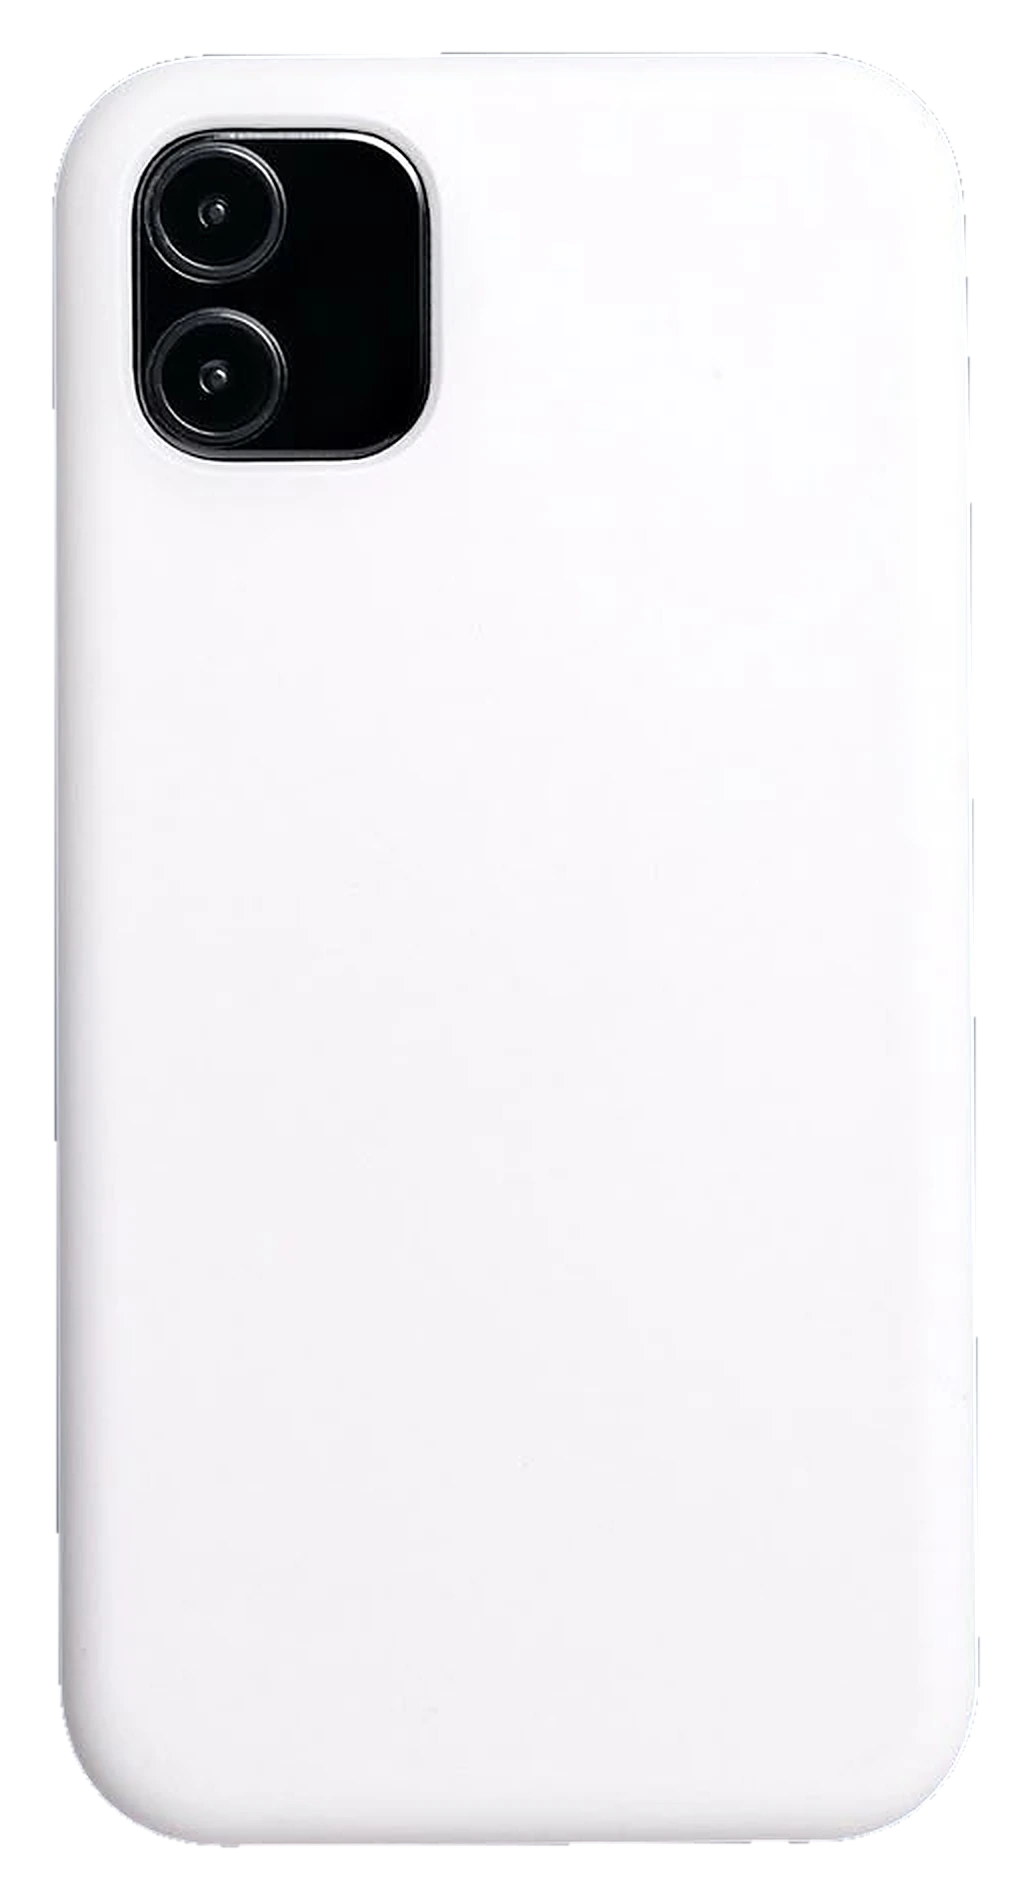
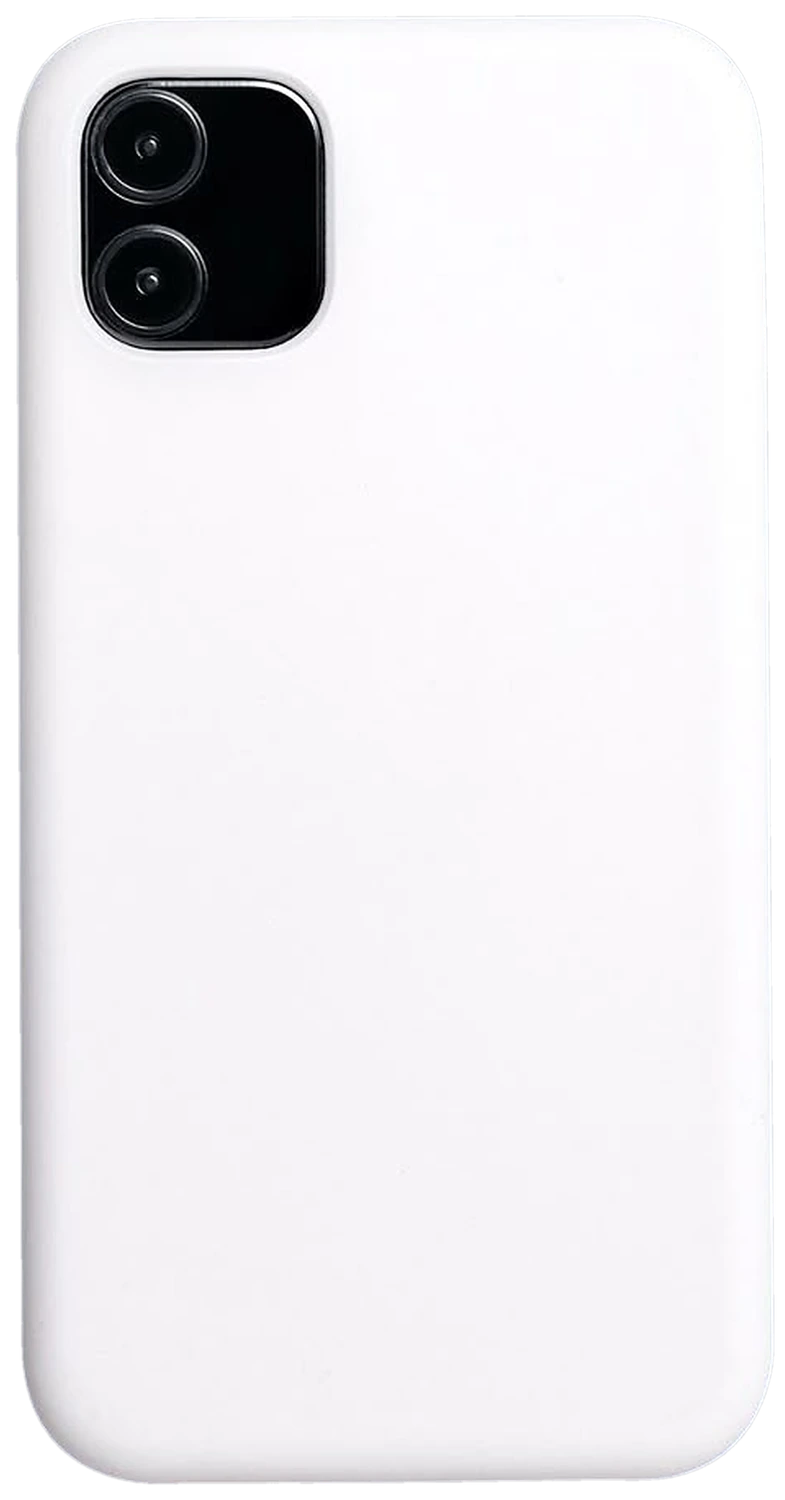
feat(storefront): showcase images with a sample design for listings; sharper bottle and phone case; brand tile instead of 'Photo à venir'
Claude-Session: https://claude.ai/code/session_01FUUk4RKLo5jqm7PrvG84qb

Changed region(s): [[0.0, 0.0307, 0.9478, 1.0]]

diff --git a/apps/storefront/src/app/produits/[slug]/page.tsx b/apps/storefront/src/app/produits/[slug]/page.tsx
@@ -6,7 +6,7 @@ import { ArrowRight, Check, FileText, Paintbrush } from "lucide-react";
 import { ApiUnavailable } from "@/components/api-unavailable";
 import { PageHeader } from "@/components/page-header";
 import { ProductCard } from "@/components/product-card";
-import { productPhotos } from "@/config/product-media";
+import { showcaseGallery } from "@/config/product-media";
 import { getProduct, listProducts, placementLabels, type Product } from "@/lib/api";
 import { sortedTiers, toNumber } from "@/lib/pricing";
 import { site } from "@/lib/site";
@@ -27,7 +27,7 @@ async function load(slug: string): Promise<{ product: Product | null; failed: bo
 export async function generateMetadata({ params }: { params: Params }): Promise<Metadata> {
   const { product } = await load((await params).slug);
   if (!product) return { title: "Produit" };
-  const photo = productPhotos(product)[0];
+  const photo = showcaseGallery(product)[0];
   return {
     title: product.name,
     description: `${product.name} personnalisé avec votre logo. À partir de ${formatHTG(toNumber(product.basePrice))} par ${product.unitLabel}.`,
@@ -51,7 +51,7 @@ export default async function ProductPage({ params }: { params: Params }) {
   }
   if (!product) notFound();
 
-  const gallery = productPhotos(product);
+  const gallery = showcaseGallery(product);
   const price = toNumber(product.basePrice);
   const compare = product.compareAtPrice ? toNumber(product.compareAtPrice) : undefined;
   const pct = discountPercent(price, compare);
@@ -100,7 +100,9 @@ export default async function ProductPage({ params }: { params: Params }) {
               </div>
             ))
           ) : (
-            <div className="flex aspect-[4/3] items-center justify-center rounded-[1.5rem] bg-ip-mist text-sm text-ip-muted">Photo à venir</div>
+            <div className="flex aspect-[4/3] items-center justify-center rounded-[1.5rem] bg-gradient-to-br from-ip-teal to-ip-teal-deep">
+              <Image src="/brand/icon-ip-192.png" alt="" width={96} height={96} className="size-24 rounded-3xl shadow-lg" />
+            </div>
           )}
         </div>
         <div className="lg:sticky lg:top-28 lg:self-start">

diff --git a/apps/storefront/src/config/product-media.ts b/apps/storefront/src/config/product-media.ts
@@ -4,6 +4,7 @@
  */
 import { placementLabels, type Placement, type Product } from "@/lib/api";
 import printAreasJson from "./print-areas.json";
+import showcaseJson from "./showcase.json";
 import newMediaJson from "./new-products-media.json";
 import { quadBox, type Quad } from "@/lib/quad";
 
@@ -297,4 +298,35 @@ export function previewFor(slug: string, placement: Placement, color?: string): 
   const own = areas[placement];
   const area = own ?? areas.FRONT ?? Object.values(areas)[0] ?? plainPreview(slug, placement).area;
   return { photo, area, indicative: !dedicated || !own || Boolean(approx?.includes(placement)) };
+}
+
+/* ---------- Showcase images (listings, cards, product pages) ---------- */
+
+interface ShowcaseEntry {
+  file: string;
+  width: number;
+  height: number;
+  alt: string;
+}
+const showcase = showcaseJson as Record<string, ShowcaseEntry>;
+
+/**
+ * The product WITH a sample design (Impact Pro logo / artwork) — what visitors see while browsing.
+ * The blank photo is only used inside the studio, where the customer puts their own design on it.
+ */
+export function showcasePhoto(slug: string): Photo | null {
+  const e = showcase[slug];
+  return e ? { src: `/photos/showcase/${e.file}`, alt: e.alt, width: e.width, height: e.height } : null;
+}
+
+/** Card / list image: showcase first, then the main photo (which already carries a design for most products). */
+export function showcaseFor(product: Pick<Product, "slug" | "name" | "images">): Photo | null {
+  return showcasePhoto(product.slug) ?? primaryPhoto(product);
+}
+
+/** Product page gallery: showcase first, then the regular photos. */
+export function showcaseGallery(product: Pick<Product, "slug" | "name" | "images">): Photo[] {
+  const s = showcasePhoto(product.slug);
+  const g = productPhotos(product);
+  return s ? [s, ...g] : g;
 }

diff --git a/apps/storefront/src/app/personnaliser/page.tsx b/apps/storefront/src/app/personnaliser/page.tsx
@@ -4,7 +4,7 @@ import Link from "next/link";
 import { ArrowRight, Brush, Layers, Printer, Scissors, Sparkles, Stamp, type LucideIcon } from "lucide-react";
 import { ApiUnavailable } from "@/components/api-unavailable";
 import { PageHeader } from "@/components/page-header";
-import { primaryPhoto } from "@/config/product-media";
+import { showcaseFor } from "@/config/product-media";
 import { listProducts, type Product } from "@/lib/api";
 import { lowestPrice } from "@/lib/pricing";
 import { services } from "@/lib/site";
@@ -51,7 +51,7 @@ export default async function CustomizePage() {
           ) : (
             <ul className="grid grid-cols-2 gap-3 sm:gap-4 md:grid-cols-3 lg:grid-cols-4">
               {products.map((p) => {
-                const photo = primaryPhoto(p);
+                const photo = showcaseFor(p);
                 return (
                   <li key={p.slug}>
                     <Link
@@ -62,7 +62,9 @@ export default async function CustomizePage() {
                         {photo ? (
                           <Image src={photo.src} alt="" fill sizes="(min-width: 1024px) 25vw, 50vw" className="object-cover transition-transform duration-300 group-hover:scale-105" />
                         ) : (
-                          <span className="flex h-full items-center justify-center bg-ip-mist text-xs font-semibold text-ip-muted">Photo à venir</span>
+                          <span className="flex h-full items-center justify-center bg-gradient-to-br from-ip-teal to-ip-teal-deep">
+                            <Image src="/brand/icon-ip-192.png" alt="" width={72} height={72} className="size-16 rounded-2xl opacity-95 shadow-lg" />
+                          </span>
                         )}
                       </span>
                       <span className="flex flex-1 flex-col p-3 sm:p-4">

diff --git a/apps/storefront/src/components/product-card.tsx b/apps/storefront/src/components/product-card.tsx
@@ -1,13 +1,13 @@
 import Image from "next/image";
 import Link from "next/link";
 import { Paintbrush } from "lucide-react";
-import { primaryPhoto } from "@/config/product-media";
+import { showcaseFor } from "@/config/product-media";
 import type { Product } from "@/lib/api";
 import { lowestPrice, toNumber } from "@/lib/pricing";
 import { discountPercent, formatHTG } from "@/lib/utils";
 
 export function ProductCard({ product, priority }: { product: Product; priority?: boolean }) {
-  const photo = primaryPhoto(product);
+  const photo = showcaseFor(product);
   const price = toNumber(product.basePrice);
   const compare = product.compareAtPrice ? toNumber(product.compareAtPrice) : undefined;
   const pct = discountPercent(price, compare);

diff --git a/CLAUDE.md b/CLAUDE.md
@@ -140,3 +140,4 @@ At the end of each phase: run tests, verify migrations, verify API, fix errors, 
 - Round 2 (2026-11-26): per-product option parameters (colorLabel/sizeLabel/required flags; no size for ball etc.), « Voir le rendu final » modal + PNG download, rendered mock-up thumbnails in cart/checkout/confirmation/suivi, previews uploaded with the order (`/uploads/previews`), perspective `quad` print areas, owner photos (t-shirts, cap side, tote, phone case, bottle, cups, badge, football, roll-up, tent, brochure) + football product (`balon` = ball). Owner originals in packages/brand/photos/incoming (reference-only: 03, 16, 18, 22; Freepik-watermarked: 02, 11).
 - Round 3 (2026-11-26): photo quality pass — t-shirts (red/blue/black, EDSR x4 + rembg), badge, roll-up, tent rebuilt from the owner originals; low-quality kit-derived products hidden via `src/config/catalog-visibility.ts` (sac-a-cordon, gobelet-isotherme, gourde-isotherme, porte-cles, protege-passeport, cle-usb, parapluie); products without photo show the Impact Pro mark tile; roll-up size label « Taille » (85×200 preselected); t-shirt colors Rouge/Noir/Bleu royal; tote = white only. Render storefront was OOM-killed at 512 MB → `images.unoptimized` + NODE_OPTIONS=--max-old-space-size=360.
 - Redis removed (2026-11-26, owner decision): no Redis in API, CI, docker-compose or Render; health checks Postgres only; rate limiting in memory; background jobs later via pg-boss on Postgres.
+- Round 5 (2026-11-26): showcase images — browsing pages (cards, /personnaliser list, product page gallery) show products WITH a sample design (`public/photos/showcase/*.webp`, generated by rendering the studio with the Impact Pro logo/artwork, indexed in `src/config/showcase.json`); the studio still uses the blank photos. Gourde aluminium and phone case re-cut (EDSR / luminance mask). Products without any photo show the Impact Pro mark tile.
